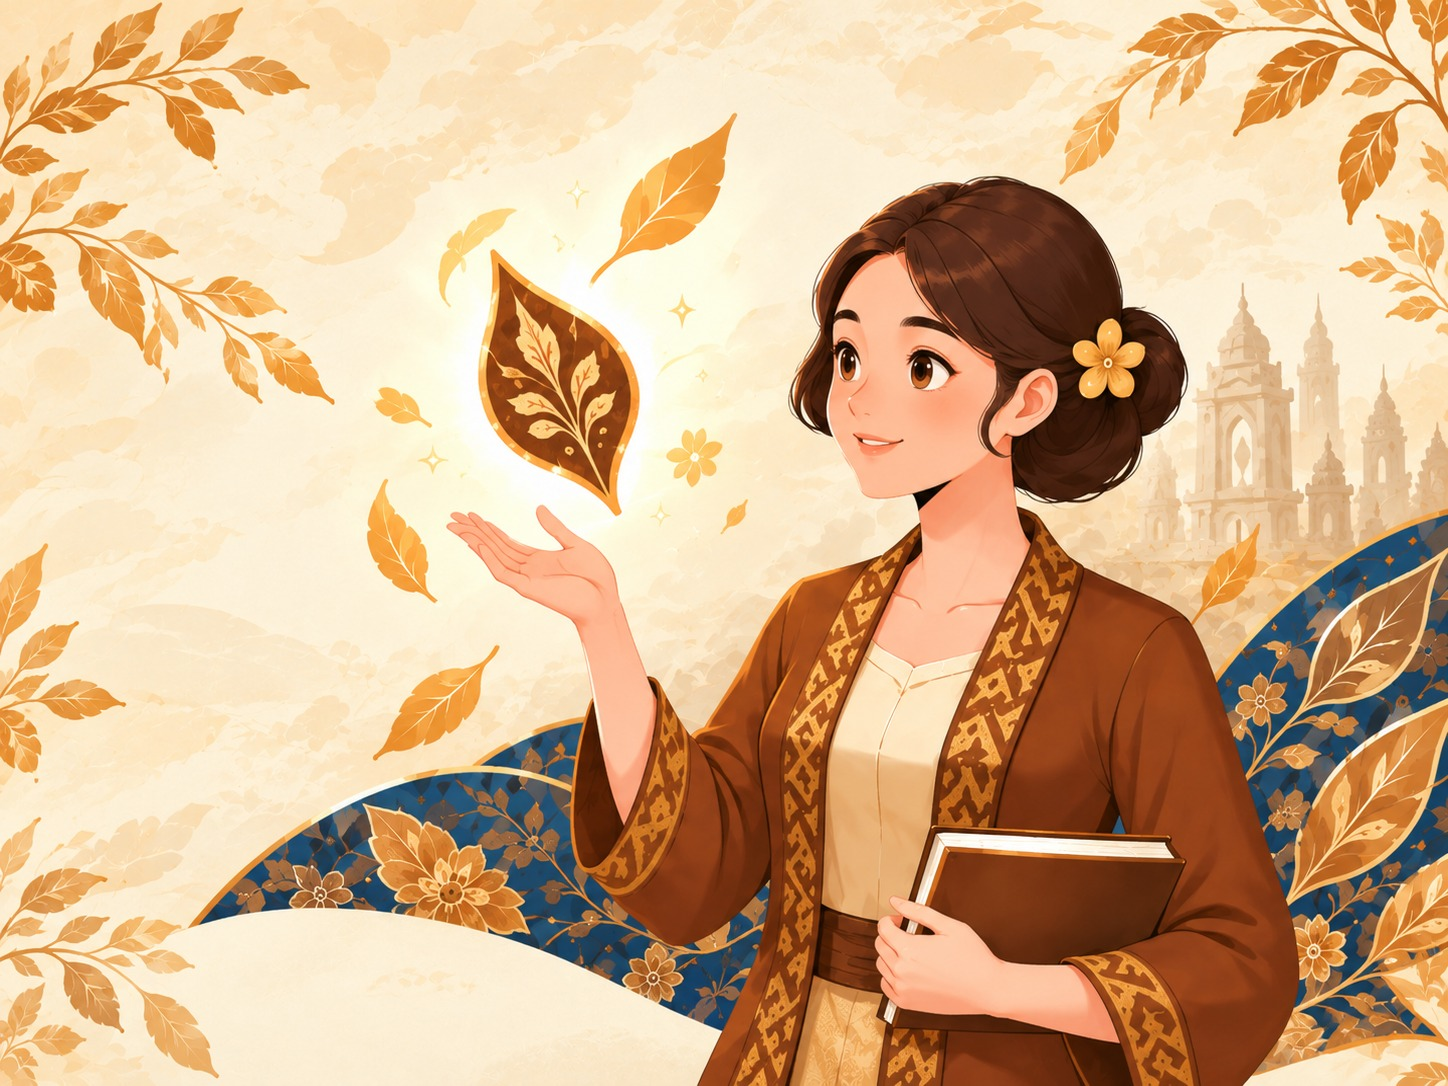
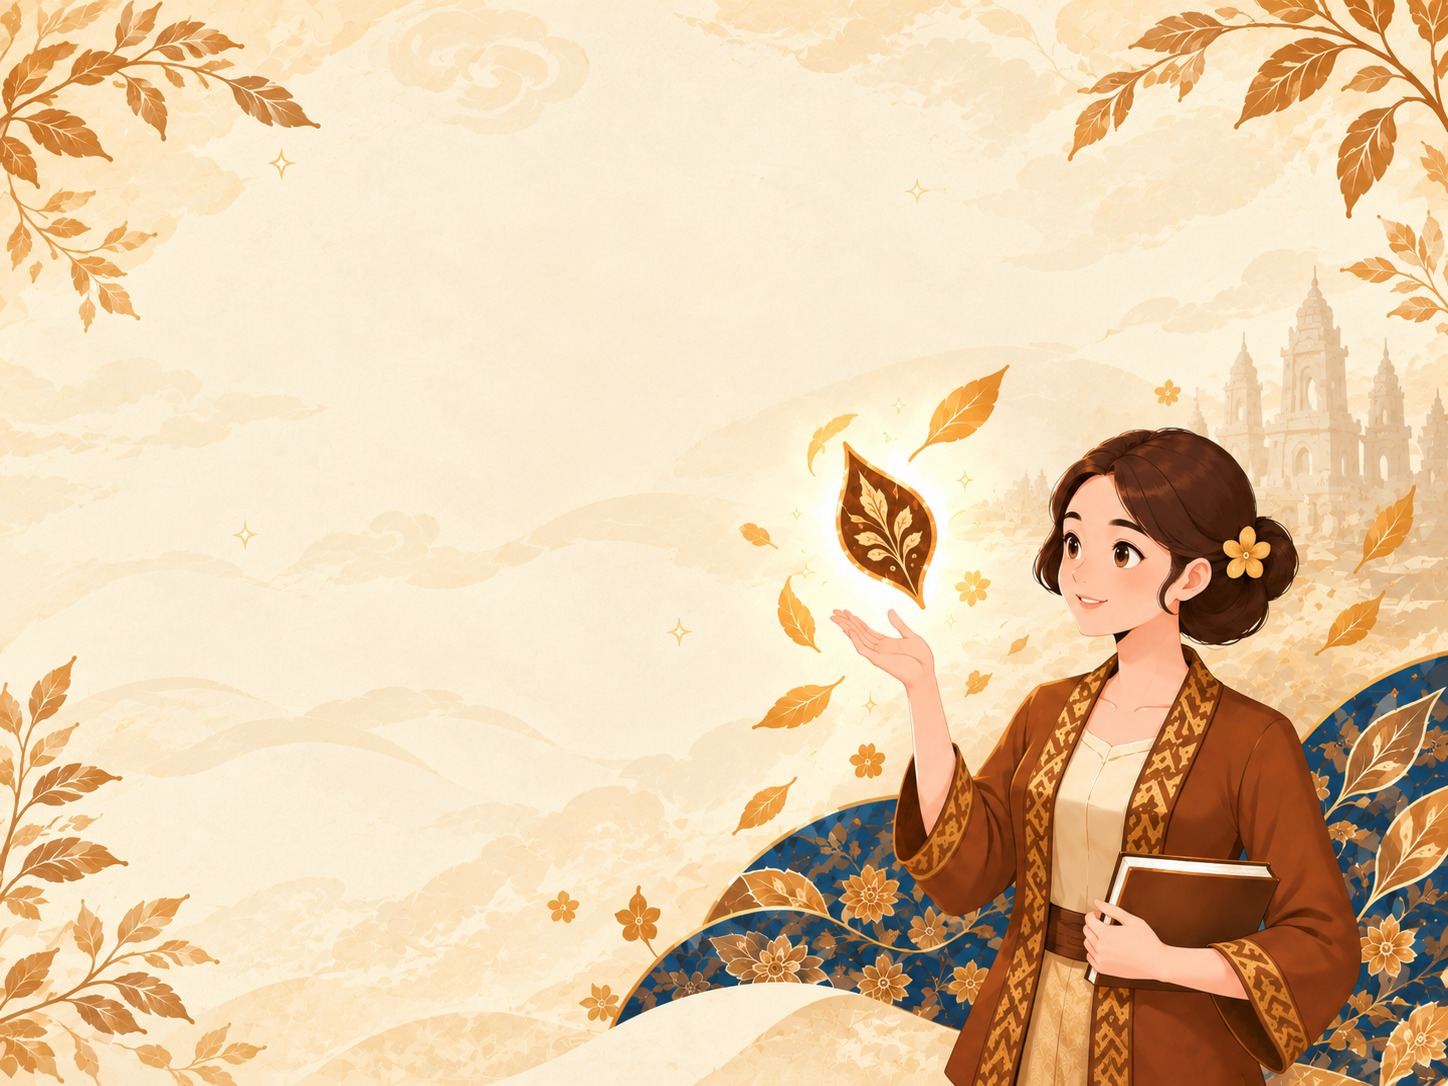
Beranda: hero kotak penuh

diff --git a/lib/screens/dashboard/dashboard_screen.dart b/lib/screens/dashboard/dashboard_screen.dart
@@ -94,87 +94,84 @@ class _DashboardScreenState extends State<DashboardScreen> {
     return SizedBox(
       height: heroHeight,
       width: double.infinity,
-      child: ClipRRect(
-        borderRadius: const BorderRadius.vertical(bottom: Radius.circular(28)),
-        child: Stack(
-          children: [
-            // ── Lapisan bawah: PageView ──
-            PageView(
-              controller: _pageController,
-              onPageChanged: (index) {
-                setState(() {
-                  _currentHeroPage = index;
-                });
-                _startHeroTimer();
-              },
-              children: [
-                _buildSlide1(firstName),
-                _buildBatikSlide(
-                  title: 'Warisan Dunia',
-                  description:
-                      'Batik Indonesia diakui UNESCO sebagai Warisan Budaya Takbenda sejak 2009.',
-                  tag: 'WARISAN BUDAYA',
-                  icon: Icons.public_rounded,
-                ),
-                _buildBatikSlide(
-                  title: 'Parang',
-                  description:
-                      'Motif tertua yang melambangkan kekuatan dan keteguhan hati.',
-                  tag: 'MOTIF BATIK',
-                  icon: Icons.waves_rounded,
-                ),
-                _buildBatikSlide(
-                  title: 'Kawung',
-                  description:
-                      'Pola lingkaran yang melambangkan kesucian dan keadilan.',
-                  tag: 'MOTIF BATIK',
-                  icon: Icons.grain_rounded,
-                ),
-              ],
-            ),
+      child: Stack(
+        children: [
+          // ── Lapisan bawah: PageView ──
+          PageView(
+            controller: _pageController,
+            onPageChanged: (index) {
+              setState(() {
+                _currentHeroPage = index;
+              });
+              _startHeroTimer();
+            },
+            children: [
+              _buildSlide1(firstName),
+              _buildBatikSlide(
+                title: 'Warisan Dunia',
+                description:
+                    'Batik Indonesia diakui UNESCO sebagai Warisan Budaya Takbenda sejak 2009.',
+                tag: 'WARISAN BUDAYA',
+                icon: Icons.public_rounded,
+              ),
+              _buildBatikSlide(
+                title: 'Parang',
+                description:
+                    'Motif tertua yang melambangkan kekuatan dan keteguhan hati.',
+                tag: 'MOTIF BATIK',
+                icon: Icons.waves_rounded,
+              ),
+              _buildBatikSlide(
+                title: 'Kawung',
+                description:
+                    'Pola lingkaran yang melambangkan kesucian dan keadilan.',
+                tag: 'MOTIF BATIK',
+                icon: Icons.grain_rounded,
+              ),
+            ],
+          ),
 
-            // ── Lapisan atas: Gradasi gelap tipis (agar status bar/ikon terbaca) ──
-            Positioned(
-              top: 0,
-              left: 0,
-              right: 0,
-              height: safeTop + 76,
-              child: IgnorePointer(
-                child: Container(
-                  decoration: BoxDecoration(
-                    gradient: LinearGradient(
-                      begin: Alignment.topCenter,
-                      end: Alignment.bottomCenter,
-                      colors: [
-                        Colors.black.withValues(alpha: 0.25),
-                        Colors.transparent,
-                      ],
-                    ),
+          // ── Lapisan atas: Gradasi gelap tipis (agar status bar/ikon terbaca) ──
+          Positioned(
+            top: 0,
+            left: 0,
+            right: 0,
+            height: safeTop + 76,
+            child: IgnorePointer(
+              child: Container(
+                decoration: BoxDecoration(
+                  gradient: LinearGradient(
+                    begin: Alignment.topCenter,
+                    end: Alignment.bottomCenter,
+                    colors: [
+                      Colors.black.withValues(alpha: 0.25),
+                      Colors.transparent,
+                    ],
                   ),
                 ),
               ),
             ),
+          ),
 
-            // ── Lapisan atas: App Bar (logo KB, search, profil) ──
-            Positioned(
-              top: safeTop + 12,
-              left: 0,
-              right: 0,
-              child: _buildTopBar(context, isDark),
-            ),
+          // ── Lapisan atas: App Bar (logo KB, search, profil) ──
+          Positioned(
+            top: safeTop + 12,
+            left: 0,
+            right: 0,
+            child: _buildTopBar(context, isDark),
+          ),
 
-            // ── Indikator titik di dasar hero ──
-            Positioned(
-              left: 0,
-              right: 0,
-              bottom: 16,
-              child: Row(
-                mainAxisAlignment: MainAxisAlignment.center,
-                children: List.generate(4, (index) => _buildDot(index)),
-              ),
+          // ── Indikator titik di dasar hero ──
+          Positioned(
+            left: 0,
+            right: 0,
+            bottom: 16,
+            child: Row(
+              mainAxisAlignment: MainAxisAlignment.center,
+              children: List.generate(4, (index) => _buildDot(index)),
             ),
-          ],
-        ),
+          ),
+        ],
       ),
     );
   }
@@ -226,7 +223,7 @@ class _DashboardScreenState extends State<DashboardScreen> {
             ),
             Positioned(
               left: 24,
-              bottom: 40,
+              bottom: 48,
               width: maxTextWidth,
               child: Text(
                 'Selamat Datang,\n$firstName!',
@@ -290,7 +287,7 @@ class _DashboardScreenState extends State<DashboardScreen> {
             ),
           ),
         Padding(
-          padding: const EdgeInsets.fromLTRB(24, 0, 24, 40),
+          padding: const EdgeInsets.fromLTRB(24, 0, 24, 48),
           child: Column(
             crossAxisAlignment: CrossAxisAlignment.start,
             mainAxisAlignment: MainAxisAlignment.end,
@@ -340,7 +337,7 @@ class _DashboardScreenState extends State<DashboardScreen> {
                   height: 1.4,
                 ),
                 softWrap: true,
-                maxLines: 4,
+                maxLines: 2,
                 overflow: TextOverflow.ellipsis,
               ),
             ],
